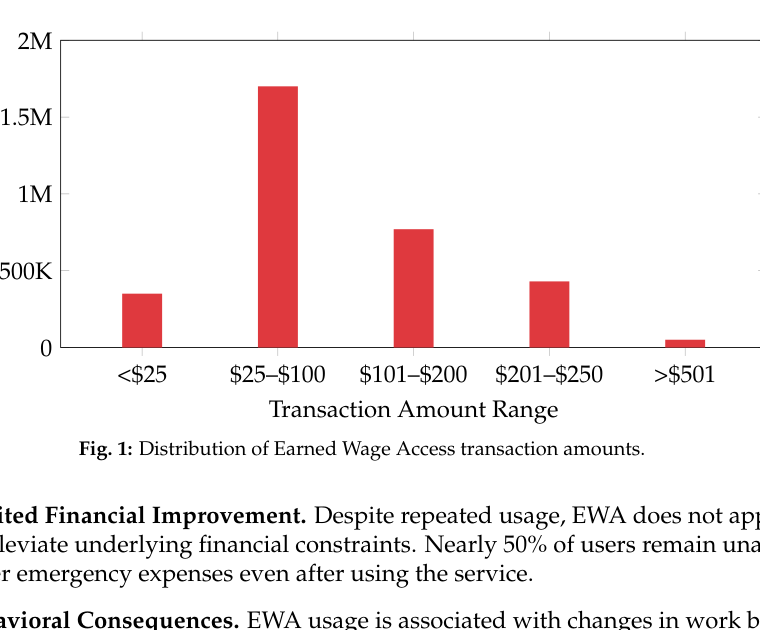
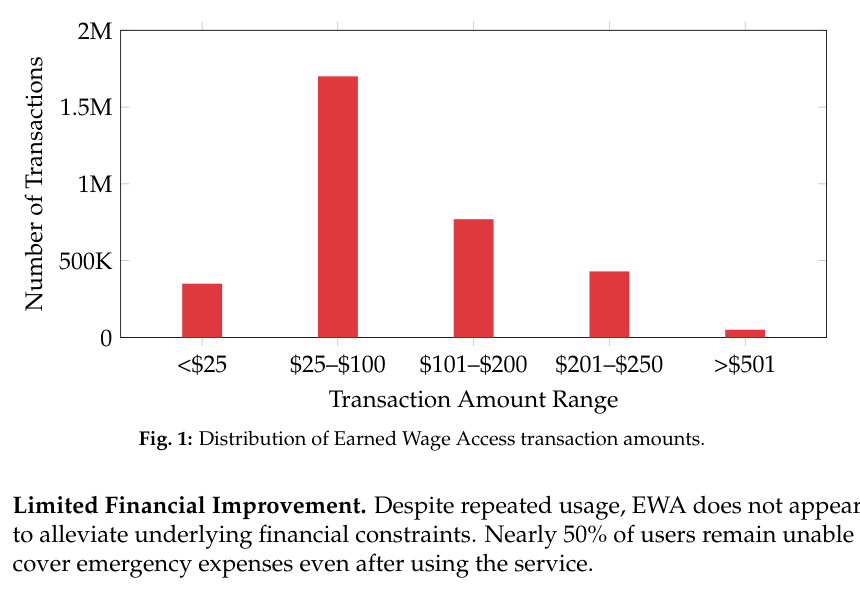
Use clean EWA figures without borders

Changed region(s): [[0.0, 0.03, 1.0, 0.75], [0.0, 0.78, 1.0, 1.0]]

diff --git a/frontend/src/site/pages/ResearchDetail.tsx b/frontend/src/site/pages/ResearchDetail.tsx
@@ -379,29 +379,25 @@ export const ResearchDetail: React.FC = () => {
                 ) : null}
 
                 {article.slug === 'earned-wage-access' && section.title === '4. Repeat Usage, Delinquencies, and Financial Outcomes' ? (
-                  <figure className="mt-8 border border-gray-100 p-4 bg-white">
+                  <figure className="mt-8">
                     <img src={EWA_FIGURES.fig1.src} alt={EWA_FIGURES.fig1.alt} className="w-full h-auto" />
-                    <figcaption className="mt-3 text-sm text-gray-500 italic">{EWA_FIGURES.fig1.caption}</figcaption>
                   </figure>
                 ) : null}
 
                 {article.slug === 'earned-wage-access' && section.title === '5. Demographic and Socioeconomic Patterns' ? (
                   <>
-                    <figure className="mt-8 border border-gray-100 p-4 bg-white">
+                    <figure className="mt-8">
                       <img src={EWA_FIGURES.fig2.src} alt={EWA_FIGURES.fig2.alt} className="w-full h-auto" />
-                      <figcaption className="mt-3 text-sm text-gray-500 italic">{EWA_FIGURES.fig2.caption}</figcaption>
                     </figure>
-                    <figure className="mt-6 border border-gray-100 p-4 bg-white">
+                    <figure className="mt-6">
                       <img src={EWA_FIGURES.fig3.src} alt={EWA_FIGURES.fig3.alt} className="w-full h-auto" />
-                      <figcaption className="mt-3 text-sm text-gray-500 italic">{EWA_FIGURES.fig3.caption}</figcaption>
                     </figure>
                   </>
                 ) : null}
 
                 {article.slug === 'earned-wage-access' && section.title === '6. Financial Access and Policy Implications' ? (
-                  <figure className="mt-8 border border-gray-100 p-4 bg-white">
+                  <figure className="mt-8">
                     <img src={EWA_FIGURES.fig4.src} alt={EWA_FIGURES.fig4.alt} className="w-full h-auto" />
-                    <figcaption className="mt-3 text-sm text-gray-500 italic">{EWA_FIGURES.fig4.caption}</figcaption>
                   </figure>
                 ) : null}
               </section>
